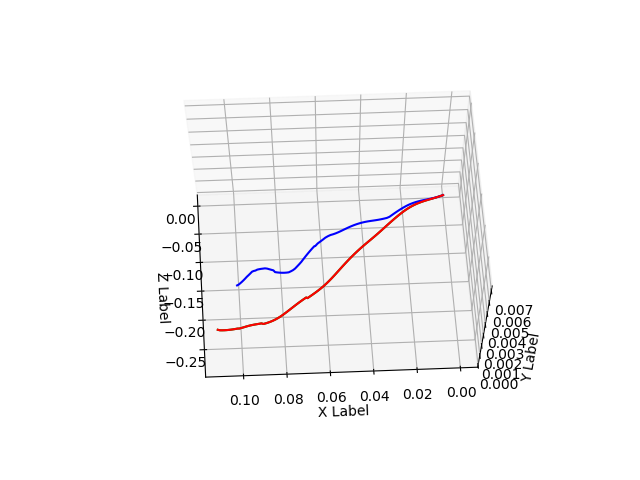
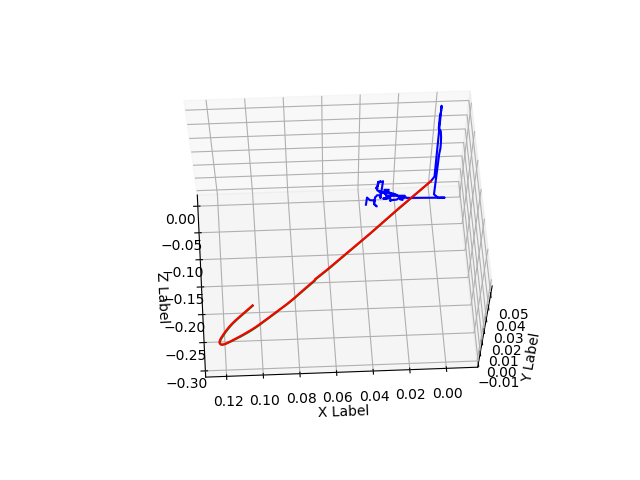
checking foe normalization

Changed region(s): [[0.25, 0.1875, 0.8438, 0.8438], [0.3438, 0.8125, 0.5625, 0.8438]]

diff --git a/kpT0_Euroc.py b/kpT0_Euroc.py
@@ -7,7 +7,8 @@ from mpl_toolkits.mplot3d import Axes3D
 from matplotlib import pyplot as plt
 from opt import OptSingle
 import pykitti
-from reproj import depth_tc
+from reproj import depth_tc, depth_tc_
+from geom import intersecc, drawlines
 from euroc.loader import EuRoC
 
 
@@ -55,20 +56,25 @@ def pt_cloud(p, p_, T, foe, scale, c):
     p = torch.cat([p, z], dim=0)
     p_ = torch.cat([p_, z], dim=0)
     foe = torch.cat([foe, z_], dim=0)
-    
+    #fmask = torch.mean(torch.abs(p_-p), dim=0) # n
+    #fmask = torch.where(fmask < 2.0,
+    #                    torch.tensor(0.0).double(),
+    #                    torch.tensor(1.0).double())
+
     c_ = torch.inverse(c)
     p = c_ @ p
     p_ = c_ @ p_
     foe = c_ @ foe
     
     d = depth_tc(p[:2], (p_-p)[:2], foe[:2])
+    d = d * (d < 10.0).double()
+
     d *= scale
-    d = torch.clamp(d, max=5.0)
-    
+
     x = p * d
     x = T[:3, :3] @ x + T[:3, 3:]
 
-    _, close = torch.topk(-d, k=1)
+    _, close = torch.topk(-d, k=4)
 
     x = x[:, close]
     x = x.detach().numpy()
@@ -85,7 +91,10 @@ def plot_pt_cloud(x, outfn):
     ax.view_init(azim=177, elev=65)
     ax.scatter(x[2, :], -x[0, :], x[1, :], marker='.')
     #ax_data = ax.plot([0], [0], [0], marker='.')[0]
-    plt.show()
+    #plt.show()
+    plt.show(block=False)
+    plt.pause(10)
+    plt.close()
     
     #plt.savefig(outfn)
     #plt.close(fig)
@@ -165,6 +174,7 @@ class KpT0:
     
     def __iter__(self):
         camera_matrix = self.camera_matrix
+        k_ = np.linalg.inv(camera_matrix)
         feature_detector = self.feature_detector
         lk_params = self.lk_params
         h, w = self.size
@@ -187,7 +197,8 @@ class KpT0:
 
             matches = bf.match(des1, des2)
             matches = sorted(matches, key=lambda x: x.distance)
-            #img3 = np.zeros(image.shape,dtype=image.dtype)
+
+            #img3 = np.zeros(image.shape, dtype=image.dtype)
             #img3 = cv2.drawMatches(prev_image, prev_keypoint,
             #                       image, curr_keypoint, matches[:10],
             #                       outImg=img3, flags=2)
@@ -226,10 +237,30 @@ class KpT0:
                 if len(self.avids) < 3:
                     self.avids = [j for j in range(len(points))]
 
-                _, R, t, mask = cv2.recoverPose(E, p1, points, camera_matrix, mask=None) #
+                F = k_ @ (E @ k_)
+                lines2 = cv2.computeCorrespondEpilines(points[self.vids], 1, F)
+
+                ep = intersecc(lines2[:, 0])
+                ep = np.concatenate([ep, np.ones(1)], axis=0)
+                ep = camera_matrix @ ep
+                self.ep0 = ep[:2]
+
+                #clines = camera_matrix @ lines2.reshape(-1, 3).T
+                #clines = clines.T
+                #try:
+                #    im3, _ = drawlines(image, prev_image, clines,
+                #                       points.reshape(-1, 2), p1.reshape(-1, 2))
+                #    plt.imshow(im3)
+                #    plt.show()
+                #except Exception:
+                #    continue
+
+                _, R, t, mask = cv2.recoverPose(E, p1, points, camera_matrix, mask=mask) #
 
                 #R1, R2, t0 = cv2.decomposeEssentialMat(E)
-                #if np.trace(R1) > np.trace(R2):
+                #tr1 = np.trace(R1)
+                #tr2 = np.trace(R2)
+                #if tr1 > tr2:
                 #    R = R1
                 #else:
                 #    R = R2
@@ -255,7 +286,7 @@ class KpT0:
 
 
 if __name__ == '__main__':
-    seq_id = 'V2_01_easy' # 'MH_01_easy' #
+    seq_id = 'MH_01_easy' #'V2_01_easy' #
     bdir = '/home/ronnypetson/Downloads/'
     h, w = 480, 752
     kp = KpT0(h, w, bdir, seq_id)
@@ -265,14 +296,13 @@ if __name__ == '__main__':
     poses_gt = []
     poses_ = []
     i = 0
-    show_cloud = False
+    show_cloud = True
     pose0 = np.eye(4)
     cloud_all = np.zeros((3, 1))
     
     for p, f, T, Tgt in kp:
         normT = np.linalg.norm(Tgt[:3, 3])
         T = norm_t(T, normT)
-        T[:3, 3] = Tgt[:3, 3]
 
         poses.append(T)
         poses_gt.append(Tgt)
@@ -288,11 +318,13 @@ if __name__ == '__main__':
         opt = OptSingle(x, x_, c)
 
         #T0 = SE3.from_matrix(T).inv().log()
-        T0 = SE3.from_matrix(Tgt).inv().log()
+        T0 = SE3.from_matrix(Tgt).inv().log() #
         #T0 = np.zeros(6)
-        foe0 = np.array([w/2.0, h/2.0])
-        #foe0 = foe0 + 1e1*np.random.randn(2) ###
-        Tfoe = opt.optimize(T0, foe0)
+        #foe0 = np.array([w/2.0, h/2.0])
+        foe0 = np.array([367.215, 248.375]) / 1.0
+        #foe0 = kp.ep0 / 100.0
+        #foe0 = np.array([0.0, 0.0])
+        Tfoe = opt.optimize(T0, foe0, freeze=True)
         print(opt.min_obj)
         if opt.min_obj > failure_eps:
             print('Initialization failure.')
@@ -306,7 +338,9 @@ if __name__ == '__main__':
 
             opt = OptSingle(x, x_, c)
             T0 = np.zeros(6)
-            foe0 = np.array([w / 2.0, h / 2.0])
+            #foe0 = np.array([w / 2.0, h / 2.0])
+            foe0 = np.array([367.215, 248.375]) / 1.0
+            #foe0 = kp.ep0 / 100.0
             # foe0 = foe0 + 1e1*np.random.randn(2) ###
             Tfoe = opt.optimize(T0, foe0, freeze=False)
             print(f'New x0 status: {opt.min_obj <= failure_eps}')
@@ -331,9 +365,9 @@ if __name__ == '__main__':
             foe = torch.from_numpy(foe).double().unsqueeze(-1)
             c_tc = torch.from_numpy(c).double()
             cloud = pt_cloud(p, p_, T_acc, foe, scale, c_tc)
-            cloud_all = np.concatenate([cloud_all, cloud], axis=1) # [:,:20]
+            cloud_all = np.concatenate([cloud_all, cloud], axis=1)
         
-        if i % 40 == 39 and show_cloud:
+        if i % 100 == 99 and show_cloud:
             plot_pt_cloud(np.array(cloud_all), f'euroc_{seq_id}_pt_cloud.svg')
         
         i += 1

diff --git a/opt.py b/opt.py
@@ -108,17 +108,19 @@ class OptSingle:
         Tfoe0 = np.concatenate([T0, foe0], axis=0)
         Tfoe0 = np.expand_dims(Tfoe0, axis=-1)
         
-        #res = minimize(self.objective,\
-        #               Tfoe0,method='BFGS',\
-        #               jac=True,\
-        #               options={'disp': True,\
-        #                        'maxiter':100,\
-        #                        'gtol':1e-8})
+        #res = minimize(self.objective,
+        #               Tfoe0, method='BFGS',
+        #               jac=True,
+        #               options={'disp': False,
+        #                        'maxiter': 100,
+        #                        'gtol': 1e-8})
 
         bounds = []
         if freeze:
+            #for par in Tfoe0:
+            #    bounds.append((par-1e-5, par+1e-5))
             for par in Tfoe0[:6]:
-                bounds.append((par-1e-10, par+1e-10))
+                bounds.append((par-1e-5, par+1e-5))
             for par in Tfoe0[6:]:
                 bounds.append((None, None))
         else:
@@ -130,15 +132,16 @@ class OptSingle:
                        jac=True,
                        bounds=bounds,
                        options={'disp': False,
-                                'maxiter': 100,
+                                'maxiter': 1000,
                                 'gtol': 1e-8})
 
-        #res = minimize(self.objective,\
-        #               Tfoe0,method='Newton-CG',\
-        #               jac=True,\
-        #               options={'disp': False,\
-        #                        'maxiter':100,\
-        #                        'gtol':1e-8})
+        #res = minimize(self.objective,
+        #               Tfoe0, method='BFGS',
+        #               jac=True,
+        #               bounds=bounds,
+        #               options={'disp': False,
+        #                        'maxiter': 100,
+        #                        'gtol': 1e-8})
         
         #res = minimize(self.obj_npy,\
         #               Tfoe0,method='Newton-CG',\

diff --git a/reproj.py b/reproj.py
@@ -44,16 +44,49 @@ def reproj_tc_foe(p, p_, T, foe, c):
     p = c_ @ p
     p_ = c_ @ p_
     z = torch.ones(1, 1).double()
+
+    foe = foe * 1.0  ###
     foe = torch.cat([foe, z], dim=0)
     foe = c_ @ foe
-
     d = depth_tc(p[:2], (p_-p)[:2], foe[:2])
+    #d = depth_tc_(p, (p_-p), T)
+
     x = p * d
     x_ = T[:3, :3] @ x + T[:3, 3:]
     p_rep = x_ / x_[-1:]
 
     ##p_rep = c @ p_rep
     return p_rep
+
+
+def depth_tc(p, f, foe):
+    ''' p is 2xN
+        f is 2xN (flow)
+        foe is 2x1
+    '''
+    mag = torch.norm(f, dim=0)
+    mag = torch.clamp(mag, 1e-3)
+    dist = (p+f)-foe
+    dist = torch.norm(dist, dim=0)
+    d = dist / mag
+    return d
+
+
+def depth_tc_(p, f, T):
+    ''' p is 3xN
+        f is 3xN (flow)
+        T is 3x3
+    '''
+    p_ = p + f
+    v = T[0, :3].unsqueeze(-1) - p_[[0], :]*T[2, :3].unsqueeze(-1)
+    v = v.T.unsqueeze(1) # n,1,3
+    num = v[:, 0] @ T[:3, 3:] # n,1
+    den = v @ p.T.unsqueeze(-1) # n,1,1
+    den = torch.clamp(den, min=1e-3)
+    d = num / den.squeeze(-1) # n,1
+    d = d.squeeze(-1) # n
+    return d
+
 
 def depth(p,f,foe):
     ''' p is 2xN
@@ -66,18 +99,6 @@ def depth(p,f,foe):
     d = dist / mag
     return d
 
-
-def depth_tc(p, f, foe):
-    ''' p is 2xN
-        f is 2xN (flow)
-        foe is 2x1
-    '''
-    mag = torch.norm(f, dim=0)
-    mag = torch.clamp(mag, 1e-4)
-    dist = (p+f)-foe ### p+f
-    dist = torch.norm(dist, dim=0)
-    d = dist / mag
-    return d
 
 def gen_pts(n):
     ''' returns x,x'

diff --git a/geom.py b/geom.py
@@ -1,0 +1,44 @@
+import numpy as np
+import cv2
+
+
+def intersecc_(points, dirs):
+    """
+    :param points: (N, 2) array of points on the lines
+    :param dirs: (N, 2) array of unit direction vectors
+    :returns: (2,) array of intersection point
+    """
+    dirs_mat = dirs[:, :, np.newaxis] @ dirs[:, np.newaxis, :]
+    points_mat = points[:, :, np.newaxis]
+    I = np.eye(2)
+    return np.linalg.lstsq(
+        (I - dirs_mat).sum(axis=0),
+        ((I - dirs_mat) @ points_mat).sum(axis=0),
+        rcond=None)[0]
+
+
+def intersecc(lines):
+    """
+    :param lines: n,3
+    :returns: (2,) array of intersection point
+    """
+    a = lines[:, :-1]
+    b = -lines[:, -1]
+    p = np.linalg.lstsq(a, b, rcond=None)[0]
+    return p
+
+
+def drawlines(img1, img2, lines, pts1, pts2):
+    ''' img1 - image on which we draw the epilines for the points in img2
+        lines - corresponding epilines '''
+    r, c = img1.shape
+    img1 = cv2.cvtColor(img1, cv2.COLOR_GRAY2BGR)
+    img2 = cv2.cvtColor(img2, cv2.COLOR_GRAY2BGR)
+    for r, pt1, pt2 in zip(lines, pts1, pts2):
+        color = tuple(np.random.randint(0, 255, 3).tolist())
+        x0, y0 = map(int, [0, -r[2]/r[1]])
+        x1, y1 = map(int, [c, -(r[2]+r[0]*c)/r[1]])
+        img1 = cv2.line(img1, (x0, y0), (x1, y1), color, 1)
+        #img1 = cv2.circle(img1, tuple(pt1), 5, color, -1)
+        #img2 = cv2.circle(img2, tuple(pt2), 5, color, -1)
+    return img1, img2

diff --git a/euroc/loader.py b/euroc/loader.py
@@ -25,8 +25,8 @@ class EuRoC:
                             [0.0, 457.296, 248.375],
                             [0.0, 0.0,     1.0]])
         self.newc = self.c0.copy()
-        self.newc[0, 0] = self.c0[0, 0] / np.sqrt(2)
-        self.newc[1, 1] = self.c0[1, 1] / np.sqrt(2)
+        #self.newc[0, 0] = self.c0[0, 0] / np.sqrt(2)
+        #self.newc[1, 1] = self.c0[1, 1] / np.sqrt(2)
         # radial-tangential distortion
         self.dist = np.array([-0.28340811, 0.07395907, 0.00019359, 1.76187114e-05])
 
